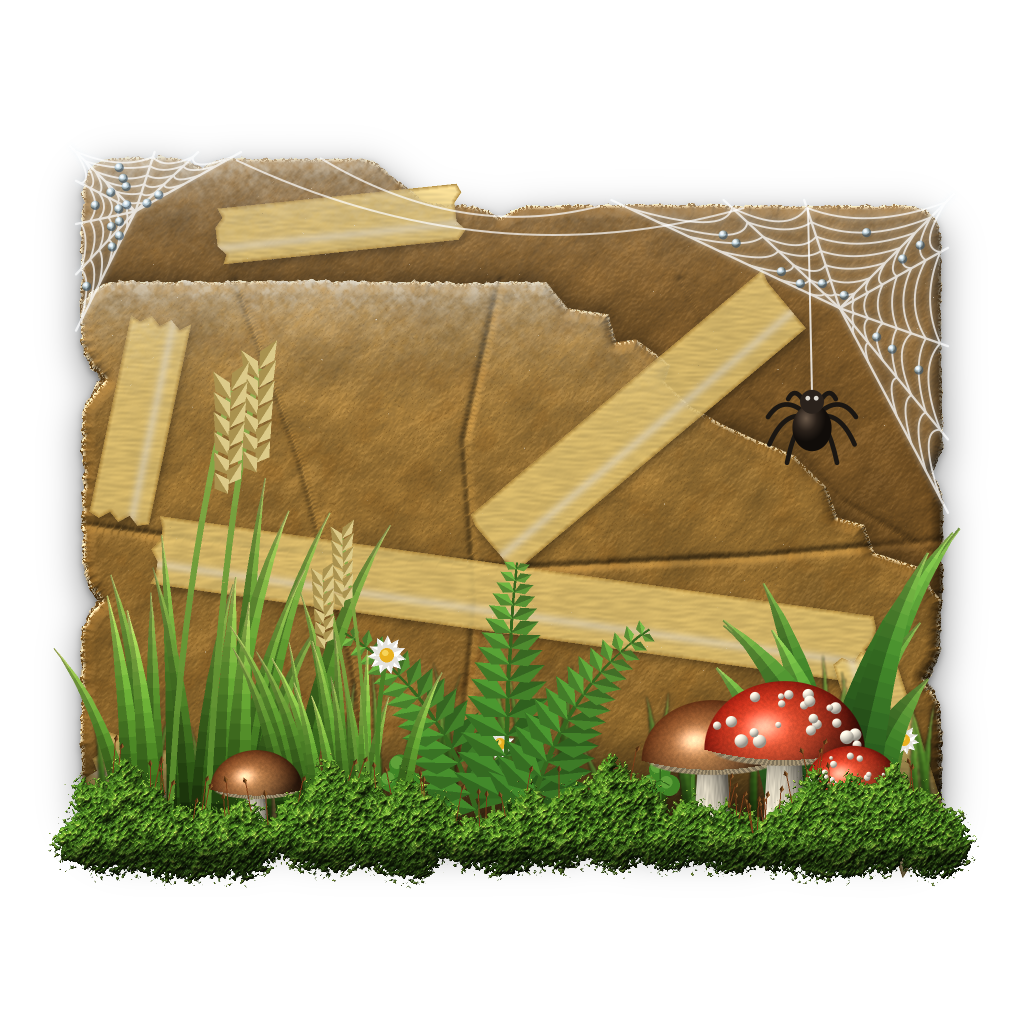
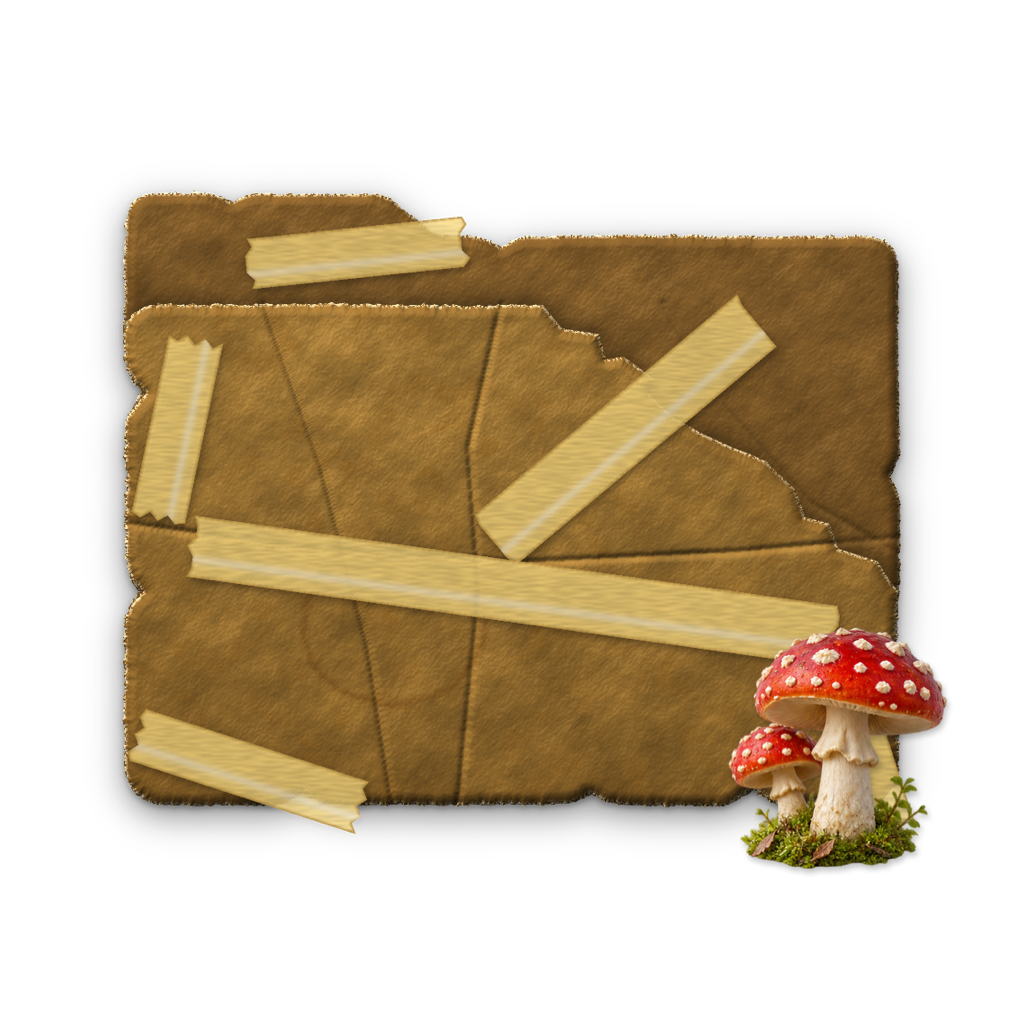
Новые украшения: одно на папку, 8 на тему, выбор стрелками в списке папок
- Иконки заменены набором FolderAge-decorated-96 (512 px): 4 стадии × (8 украшений + без украшения) на тему.
  Папка занимает 90% прежнего размера, чтобы украшения помещались. У ракеты убран дым.
- Украшение хранится номером (0 — нет, 1…8), случайно выпадает и меняется раз в сутки.
- В списке папок рядом с иконкой — стрелки влево/вправо: выбрать украшение вручную.
  Выбранное закрепляется; «Случайное украшение» в меню папки снимает закрепление.
- Превью тем и иконка приложения — из нового набора.

Claude-Session: https://claude.ai/code/session_01B56R1a3Mzs4vDcPXSNi1zM

diff --git a/Sources/FolderAge/DecayEngine.swift b/Sources/FolderAge/DecayEngine.swift
@@ -11,8 +11,10 @@ struct FolderRecord: Codable {
     var excluded: Bool = false      // «не трогать эту папку»
     var inode: UInt64?              // номер файла: по нему узнаём переименованную папку
     var dev: Int64?                 // номер тома — чтобы найти папку, если её унесли из отслеживаемых мест
-    var decor: String?              // случайное украшение: "n0" или "n2B"
-    var decorAt: Date?              // когда его выбрали (меняется раз в сутки)
+    var decor: String?              // (старые версии) прежний формат украшения, больше не используется
+    var decorAt: Date?              // когда украшение выбрали (случайное меняется раз в сутки)
+    var orn: Int?                   // украшение: 0 — нет, 1…8 — номер в списке темы
+    var ornPinned: Bool?            // выбрано вручную в настройках — случайная смена его не трогает
 }
 
 /// Строка для списка в настройках.
@@ -22,7 +24,8 @@ struct FolderInfo: Identifiable {
     let created: Date
     let lastChange: Date
     let age: Int
-    let neglect: Int
+    let ornament: Int               // 0 — без украшения
+    let ornamentPinned: Bool
     let iconKey: String?
     let excluded: Bool
     let foreignIcon: Bool
@@ -30,7 +33,7 @@ struct FolderInfo: Identifiable {
     var stageLabel: String {
         if excluded { return "не трогаем" }
         if foreignIcon { return "своя иконка" }
-        return "A\(age + 1) · N\(neglect + 1)"
+        return "стадия \(age + 1)"
     }
 
     var subtitle: String {
@@ -98,7 +101,8 @@ final class DecayEngine: ObservableObject {
             .sink { [weak self] on in
                 guard let self else { return }
                 if on {
-                    for k in Array(self.records.keys) { self.records[k]?.decor = nil }
+                    // Выбранные вручную украшения остаются, остальные выпадают заново.
+                    for k in Array(self.records.keys) where self.records[k]?.ornPinned != true { self.records[k]?.orn = nil }
                     self.save()
                 }
                 self.scheduleScan(after: 0.1)
@@ -255,18 +259,19 @@ final class DecayEngine: ObservableObject {
             let a = prefs.agingOn ? Stages.stage(now.timeIntervalSince(changeBase) / spd, Stages.idleDays) : 0
             // Шкала 2 — случайное украшение, раз в сутки выбирается заново.
             let day: TimeInterval = 86_400
-            if r.decor == nil {
+            let count = prefs.theme.ornaments.count
+            if r.orn == nil || (r.orn ?? 0) > count {
                 // Первый раз: момент смены сдвигаем случайно, чтобы папки менялись в разное время, а не все разом.
-                r.decor = DecayEngine.randomDecor()
+                r.orn = Int.random(in: 0...count)
+                r.ornPinned = nil
                 r.decorAt = now.addingTimeInterval(-Double.random(in: 0..<day))
-            } else if now.timeIntervalSince(r.decorAt ?? .distantPast) >= day {
-                r.decor = DecayEngine.randomDecor()
+            } else if r.ornPinned != true, now.timeIntervalSince(r.decorAt ?? .distantPast) >= day {
+                r.orn = Int.random(in: 0...count)
                 r.decorAt = now
             }
-            let decor = prefs.overgrowthOn ? (r.decor ?? "n0") : "n0"
-            let n = Int(decor.dropFirst().prefix(1)) ?? 0
+            let n = prefs.overgrowthOn ? (r.orn ?? 0) : 0
             let foreign = o.hasIconFile && r.applied == nil && !o.ours
-            let key = "a\(a)\(decor)"
+            let key = "s\(a + 1)-\(prefs.theme.ornamentName(n))"
             let themedKey = "\(prefs.theme.rawValue)/\(key)"
 
             if prefs.enabled && !r.excluded && !(foreign && prefs.respectCustomIcons) {
@@ -285,7 +290,7 @@ final class DecayEngine: ObservableObject {
             }
             records[o.path] = r
             infos.append(FolderInfo(id: o.path, name: o.name, created: o.created, lastChange: changeBase,
-                                    age: a, neglect: n, iconKey: r.applied, excluded: r.excluded,
+                                    age: a, ornament: n, ornamentPinned: r.ornPinned == true, iconKey: r.applied, excluded: r.excluded,
                                     foreignIcon: foreign && prefs.respectCustomIcons))
         }
 
@@ -350,13 +355,31 @@ final class DecayEngine: ObservableObject {
         save(); scheduleScan(after: 0)
     }
 
+    /// Стрелки в списке папок: следующее/предыдущее украшение по кругу (включая «без украшения»).
+    /// Выбранное вручную закрепляется и раз в сутки не меняется.
+    func cycleOrnament(_ path: String, _ step: Int) {
+        guard var r = records[path] else { return }
+        let total = prefs.theme.ornaments.count + 1
+        r.orn = (((r.orn ?? 0) + step) % total + total) % total
+        r.ornPinned = true
+        records[path] = r
+        save(); scheduleScan(after: 0)
+    }
+
+    /// Вернуть папке случайное украшение.
+    func unpinOrnament(_ path: String) {
+        records[path]?.ornPinned = nil
+        records[path]?.orn = nil
+        save(); scheduleScan(after: 0)
+    }
+
     func setExcluded(_ path: String, _ value: Bool) {
         records[path]?.excluded = value
         // Сразу обновляем строку в списке, чтобы пункт меню переключился без ожидания проверки.
         folders = folders.map { f in
             guard f.id == path else { return f }
             return FolderInfo(id: f.id, name: f.name, created: f.created, lastChange: f.lastChange,
-                              age: f.age, neglect: f.neglect, iconKey: value ? nil : f.iconKey,
+                              age: f.age, ornament: f.ornament, ornamentPinned: f.ornamentPinned, iconKey: value ? nil : f.iconKey,
                               excluded: value, foreignIcon: f.foreignIcon)
         }
         save(); scheduleScan(after: 0)
@@ -400,14 +423,7 @@ final class DecayEngine: ObservableObject {
 
     // MARK: helpers
 
-    /// Случайное украшение: уровень 0…4 (0 — без украшений) и вариант раскладки A/B/C.
-    static func randomDecor() -> String {
-        let level = Int.random(in: 0...4)
-        if level == 0 { return "n0" }
-        return "n\(level)\(["A", "B", "C"].randomElement()!)"
-    }
-
-    /// themedKey: "nature/a2n3B" — картинка из Icons/<тема>/<ключ>.png.
+    /// themedKey: "nature/s2-frog" — картинка из Icons/<тема>/<ключ>.png.
     func image(_ themedKey: String) -> NSImage? {
         if let img = imageCache[themedKey] { return img }
         let parts = themedKey.split(separator: "/", maxSplits: 1).map(String.init)

diff --git a/Sources/FolderAge/Prefs.swift b/Sources/FolderAge/Prefs.swift
@@ -15,14 +15,33 @@ enum Theme: String, CaseIterable, Identifiable {
 
     var summary: String {
         switch self {
-        case .nature: return "Чем дольше папку не трогают, тем сильнее бумага темнеет, мнётся и рвётся. Украшения — трава, мох и грибы."
-        case .digital: return "Без изменений папка уходит от чёткой к ЭЛТ, глитчу и текстовому режиму. Украшения — роботы, графики, окна ошибок и провода."
-        case .ocean: return "Без изменений стекло покрывается солью, ракушечником и ржавчиной. Украшения — водоросли, кораллы и сундук."
+        case .nature: return "Чем дольше папку не трогают, тем сильнее бумага темнеет, мнётся и рвётся. Украшения — мухоморы, лягушка, подсолнух, пчела и другие."
+        case .digital: return "Без изменений папка уходит от чёткой к ЭЛТ, глитчу и текстовому режиму. Украшения — робот, ракета, кассета, геймпад и другие."
+        case .ocean: return "Без изменений стекло покрывается солью, ракушечником и ржавчиной. Украшения — осьминог, медуза, краб, морской конёк и другие."
         }
     }
 
     /// Картинка для карточки выбора темы — крайнее состояние: самая старая и заброшенная папка.
-    var previewKey: String { self == .ocean ? "a3n4B" : "a3n4A" }
+    var previewKey: String {
+        switch self {
+        case .nature: return "s4-mushrooms"
+        case .digital: return "s4-robot"
+        case .ocean: return "s4-octopus"
+        }
+    }
+
+    /// Украшения темы. Номер украшения у папки: 0 — без украшения, 1…8 — по этому списку.
+    var ornaments: [String] {
+        switch self {
+        case .nature: return ["mushrooms", "frog", "sunflower", "ladybug", "snail", "bee-honey", "cherries", "oak-acorn"]
+        case .digital: return ["gamepad", "rocket", "cursor", "robot", "cassette", "lightning", "compact-disc", "floppy"]
+        case .ocean: return ["octopus", "pearl-shell", "crab", "clownfish", "jellyfish", "starfish", "seahorse", "message-bottle"]
+        }
+    }
+
+    func ornamentName(_ index: Int) -> String {
+        index >= 1 && index <= ornaments.count ? ornaments[index - 1] : "none"
+    }
     var isPixelArt: Bool { self == .digital }
 }
 

diff --git a/Sources/FolderAge/SettingsView.swift b/Sources/FolderAge/SettingsView.swift
@@ -85,12 +85,27 @@ struct FoldersTab: View {
 struct FolderRow: View {
     let info: FolderInfo
     @ObservedObject var engine = DecayEngine.shared
+    @ObservedObject var prefs = Prefs.shared
+
+    private var canPickOrnament: Bool { prefs.enabled && prefs.overgrowthOn && !info.excluded && !info.foreignIcon }
 
     var body: some View {
         HStack(spacing: 12) {
-            Image(nsImage: engine.thumbnail(info))
-                .resizable()
-                .frame(width: 40, height: 40)
+            HStack(spacing: 2) {
+                if canPickOrnament {
+                    Button { engine.cycleOrnament(info.id, -1) } label: { Image(systemName: "chevron.left") }
+                        .buttonStyle(.borderless)
+                        .help("Предыдущее украшение")
+                }
+                Image(nsImage: engine.thumbnail(info))
+                    .resizable()
+                    .frame(width: 40, height: 40)
+                if canPickOrnament {
+                    Button { engine.cycleOrnament(info.id, 1) } label: { Image(systemName: "chevron.right") }
+                        .buttonStyle(.borderless)
+                        .help("Следующее украшение")
+                }
+            }
             VStack(alignment: .leading, spacing: 2) {
                 Text(info.name).fontWeight(.medium).lineLimit(1)
                 Text(info.subtitle).font(.caption).foregroundColor(.secondary).lineLimit(1)
@@ -102,6 +117,9 @@ struct FolderRow: View {
             Menu {
                 Button(info.foreignIcon ? "Оформить эту папку" : "Обновить") { engine.refresh(info.id) }
                     .disabled(info.excluded)
+                if info.ornamentPinned && canPickOrnament {
+                    Button("Случайное украшение") { engine.unpinOrnament(info.id) }
+                }
                 if info.excluded {
                     Button("Снова оформлять эту папку") { engine.setExcluded(info.id, false) }
                 } else {

diff --git a/README.md b/README.md
@@ -64,13 +64,13 @@ open build/FolderAge.app
 
 - Иконка ставится стандартным `NSWorkspace.setIcon` — так же, как при вставке картинки в «Свойства» папки. «Вернуть обычные иконки» снимает их.
 - **Старение = сколько в папке ничего не меняли.** Изменение — самая свежая дата изменения/добавления файлов внутри (до 3 уровней вложенности), изменение списка файлов (ловит удаления и переименования), создание или перенос самой папки сюда и её переименование (папку узнаём по номеру файла, поэтому история и настройки переезжают вместе с ней). Наша собственная иконка (`Icon\r`) не считается. Папки с нашей иконкой помечаются атрибутом `com.toomze.folderage`; если папку унесли из отслеживаемого места, ей возвращается обычная иконка. Дата создания папки больше не влияет.
-- **Украшения** (трава, мох, грибы / роботы, графики, окна ошибок, провода / водоросли и сундук) — только накладываются поверх папки, саму папку меняет лишь шкала старения — случайные: уровень 0…4 и вариант A/B/C выбираются для каждой папки заново раз в сутки, чтобы папки одной темы выглядели по-разному. Включаются переключателем «Случайные украшения»; при каждом включении выбираются заново для всех папок.
+- **Украшения** — одно на папку, 8 на тему (Nature: мухоморы, лягушка, подсолнух, божья коровка, улитка, пчела с мёдом, вишни, дуб с жёлудем; Digital: геймпад, ракета, курсор, робот, кассета, молния, компакт-диск, дискета; Ocean: осьминог, раковина с жемчугом, краб, рыба-клоун, медуза, морская звезда, морской конёк, письмо в бутылке). Саму папку меняет только шкала старения. Украшение (или его отсутствие) выпадает случайно и меняется раз в сутки; стрелками в списке папок его можно выбрать вручную — тогда оно закрепляется. Включаются переключателем «Случайные украшения»; при каждом включении незакреплённые выпадают заново.
 - Папки со своей иконкой не трогаются (настраивается).
 - Состояние хранится в `~/Library/Application Support/FolderAge/folders.json`.
 
-Иконки: `Resources/Icons/<тема>/aXnY[V].png` — тема `nature` / `digital` / `ocean`, X — сколько не меняли, 0…3 (до 2 нед. · 2 нед.–1 мес. · 1–3 мес. · больше 3 мес.), Y — уровень украшения 0…4, V — вариант A/B/C. Полоса внизу окна настроек: `Resources/Decor/<тема>_strip.png`.
+Иконки: `Resources/Icons/<тема>/sN-<украшение>.png` — тема `nature` / `digital` / `ocean`, N — стадия 1…4 (до 2 нед. · 2 нед.–1 мес. · 1–3 мес. · больше 3 мес. без изменений), украшение — имя из списка или `none`. 512 × 512, папка занимает 90% прежнего размера. Полоса внизу окна настроек: `Resources/Decor/<тема>_strip.png`.
 
 Темы выбираются в настройках. Стадии старения:
-- **Nature** — новая жёлтая бумага → потёртая, загнутый угол → темнее, в скотче → рваная, вся в скотче; украшения — трава, мох и грибы.
-- **Digital** — чёткая → ЭЛТ-монитор с крупными пикселями → фиолетовый глитч → тёмный сине-фиолетовый текстовый режим; украшения — пиксельные роботы и жуки, графики, окна ошибок, провода.
-- **Ocean** — морское стекло → соль → ракушечник → ржавое железо; украшения — водоросли, кораллы, ракушки, сундук.
+- **Nature** — новая жёлтая бумага → потёртая, загнутый угол → темнее, в скотче → рваная, вся в скотче.
+- **Digital** — чёткая → ЭЛТ-монитор с крупными пикселями → фиолетовый глитч → тёмный сине-фиолетовый текстовый режим.
+- **Ocean** — морское стекло → соль → ракушечник → ржавое железо.
